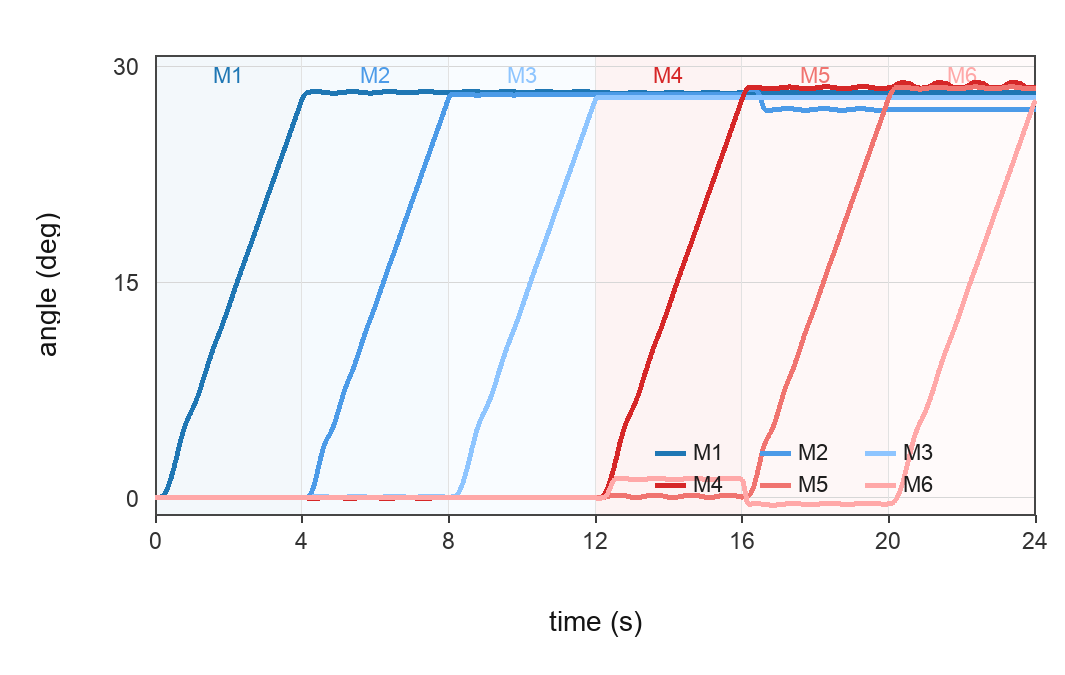
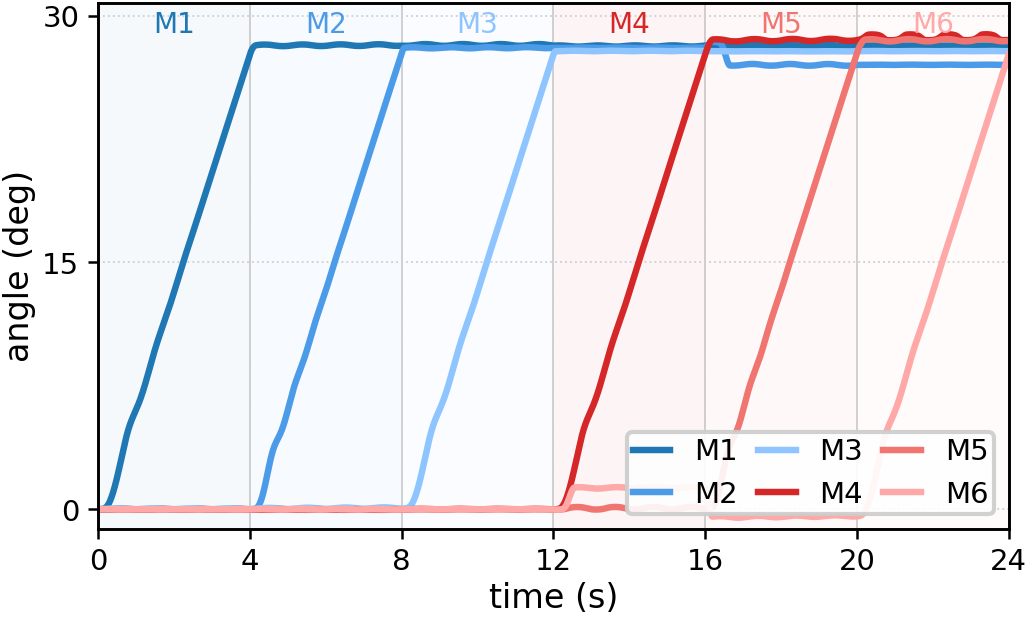
feat: Enhance README and scripts with detailed explanations and visualizations for dual-arm platform

diff --git a/scripts/case_study_dualarm.py b/scripts/case_study_dualarm.py
@@ -30,6 +30,7 @@ np.seterr(all="ignore")
 import matplotlib
 matplotlib.use("Agg")
 import matplotlib.pyplot as plt
+import matplotlib.patheffects as pe
 from scipy.integrate import solve_ivp
 
 ROOT = pathlib.Path(__file__).resolve().parent.parent
@@ -55,6 +56,30 @@ N_CYCLES = 6
 ARM_COLORS = ("#1f77b4", "#d62728")
 MOTOR_COLORS = ["#1f77b4", "#4c9be8", "#8ec5ff", "#d62728", "#f07470", "#ffa8a8"]
 PAPER_DPI = 300
+
+# Coil profile for the layout drawing only (magnetics stay in
+# selective_em.coils). Real core/winding are Ø45/Ø105 mm, 180/120 mm long; the
+# layout draws a shortened, slightly slimmed solenoid (exposed core tip +
+# winding barrel + open bore) so all eight coils render as complete, distinct
+# bodies that fit fully inside the frame instead of being cropped at its edges.
+CORE_R, WIND_R = 0.019, 0.036
+CORE_TIP, WIND_LEN = 0.010, 0.040   # exposed core tip + winding barrel length
+COIL_CU, COIL_CU_EDGE = "#b86b45", "#5b2c1c"
+CORE_COL, CORE_EDGE = "#d8d5ca", "#4d4d4d"
+# coil number -> (unit axis toward the workspace, core-top position (m));
+# nominal mounting poses of the 10-coil array (body extends along -axis)
+COIL_POSES = {
+    1:  ((-1.0, 0.0, 0.0),                (0.085, 0.0, 0.0)),
+    2:  ((-0.5, 0.866025, 0.0),           (0.0425, -0.073612, 0.0)),
+    3:  ((0.5, 0.866025, 0.0),            (-0.0425, -0.073612, 0.0)),
+    4:  ((1.0, 0.0, 0.0),                 (-0.085, 0.0, 0.0)),
+    5:  ((0.5, -0.866025, 0.0),           (-0.0425, 0.073612, 0.0)),
+    6:  ((-0.5, -0.866025, 0.0),          (0.0425, 0.073612, 0.0)),
+    7:  ((0.0, 0.766045, 0.642787),       (0.0, -0.0651138, -0.0546369)),
+    8:  ((0.663414, -0.383022, 0.642787), (-0.0563902, 0.0325569, -0.0546369)),
+    9:  ((-0.663414, -0.383022, 0.642787), (0.0563902, 0.0325569, -0.0546369)),
+    10: ((0.0, 0.0, 1.0),                 (0.0, 0.0, -0.085)),
+}
 
 
 PAPER_STYLE = {
@@ -164,6 +189,51 @@ def _cylinder(ax, p0, p1, r, color, n=24, alpha=1.0, cap=True):
                             shade=True)
 
 
+def _annulus(ax, center, axis, r0, r1, color, alpha=1.0, n=48):
+    c = np.asarray(center, float)
+    _, u, v = _frame(axis)
+    th = np.linspace(0, 2 * np.pi, n); rr = np.array([r0, r1])
+    RR, TH = np.meshgrid(rr, th)
+    X = c[0] + RR * np.cos(TH) * u[0] + RR * np.sin(TH) * v[0]
+    Y = c[1] + RR * np.cos(TH) * u[1] + RR * np.sin(TH) * v[1]
+    Z = c[2] + RR * np.cos(TH) * u[2] + RR * np.sin(TH) * v[2]
+    ax.plot_surface(X, Y, Z, color=color, alpha=alpha, linewidth=0, shade=True)
+
+
+def _ring(ax, center, axis, r, color, lw=0.5, alpha=1.0, n=72):
+    c = np.asarray(center, float)
+    _, u, v = _frame(axis)
+    th = np.linspace(0, 2 * np.pi, n)
+    ax.plot(c[0] + r * (np.cos(th) * u[0] + np.sin(th) * v[0]),
+            c[1] + r * (np.cos(th) * u[1] + np.sin(th) * v[1]),
+            c[2] + r * (np.cos(th) * u[2] + np.sin(th) * v[2]),
+            color=color, lw=lw, alpha=alpha)
+
+
+def _draw_coil(ax, num, view, alpha=0.92):
+    """Complete schematic solenoid for coil `num`: exposed iron core tip, copper
+    winding barrel with an open bore, and front/rear end rings."""
+    axis, top = COIL_POSES[num]
+    axis = np.asarray(axis, float); top = np.asarray(top, float)
+    head = top - CORE_TIP * axis          # winding front face
+    back = head - WIND_LEN * axis         # winding rear face
+    core = [(lambda: _cylinder(ax, head, top, CORE_R, CORE_COL, alpha=alpha)),
+            (lambda: _ring(ax, top, axis, CORE_R, CORE_EDGE, lw=0.6, alpha=alpha))]
+    front = [(lambda: _annulus(ax, head, axis, CORE_R, WIND_R, COIL_CU, alpha=alpha)),
+             (lambda: _ring(ax, head, axis, WIND_R, COIL_CU_EDGE, lw=0.7, alpha=alpha)),
+             (lambda: _ring(ax, head, axis, CORE_R, COIL_CU_EDGE, lw=0.5, alpha=alpha))]
+    barrel = [(lambda: _cylinder(ax, back, head, WIND_R, COIL_CU, alpha=alpha, cap=False))]
+    rear = [(lambda: _annulus(ax, back, axis, CORE_R, WIND_R, COIL_CU, alpha=alpha)),
+            (lambda: _ring(ax, back, axis, WIND_R, COIL_CU_EDGE, lw=0.7, alpha=alpha))]
+    # painter's algorithm within the coil: far parts first
+    if np.dot(axis, view) > 0:            # front face toward the camera
+        parts = rear + barrel + front + core
+    else:                                 # rear face toward the camera
+        parts = core + front + barrel + rear
+    for draw in parts:
+        draw()
+
+
 def _box(ax, center, sx, sy, sz, color, alpha=1.0):
     from mpl_toolkits.mplot3d.art3d import Poly3DCollection
     cx, cy, cz = center
@@ -176,64 +246,121 @@ def _box(ax, center, sx, sy, sz, color, alpha=1.0):
 
 
 def _draw_arm(ax, motors, ai):
+    """Draw one 3-motor arm (base, links, joint magnets, gripper). Labels are
+    added by `_label_motors` so they never overlap the geometry."""
+    from matplotlib.colors import to_rgb
     m1, m2, m3 = motors
     z = np.array([0, 0, 1.0]); col = ARM_COLORS[ai]
-    _box(ax, (m1[0], m1[1], m1[2] - 0.010), 0.022, 0.022, 0.008, "0.35")  # base
-    _cylinder(ax, (m1[0], m1[1], m1[2] - 0.006), m1, 0.005, "0.5")        # pillar
-    _cylinder(ax, m1, m2, 0.0035, "0.6")                                   # link 1
-    _cylinder(ax, m2, m3, 0.0035, "0.6")                                   # link 2
+    link_col = tuple(0.40 * c + 0.60 for c in to_rgb(col))  # pale arm tint
+    _box(ax, (m1[0], m1[1], m1[2] - 0.010), 0.024, 0.024, 0.008, "0.35")  # base
+    _cylinder(ax, (m1[0], m1[1], m1[2] - 0.006), m1, 0.006, "0.5")        # pillar
+    _cylinder(ax, m1, m2, 0.0060, link_col)                                # link 1
+    _cylinder(ax, m2, m3, 0.0060, link_col)                                # link 2
     for p in (m1, m2):                                                     # joint motors
-        _cylinder(ax, p - z * 0.005, p + z * 0.005, 0.007, col)
-    _cylinder(ax, m3 - z * 0.004, m3 + z * 0.004, 0.006, col)             # gripper hub
+        _cylinder(ax, p - z * 0.006, p + z * 0.006, 0.0085, col)
+    _cylinder(ax, m3 - z * 0.005, m3 + z * 0.005, 0.0072, col)            # gripper hub
     d = m3 - m2; d = d / (np.linalg.norm(d) + 1e-9)
     perp = np.array([-d[1], d[0], 0.0])
     for s in (1, -1):                                                      # gripper prongs
-        root = m3 + perp * s * 0.004
-        _cylinder(ax, root, root + d * 0.011 + perp * s * 0.003, 0.0015, col)
-    for p in (m1, m2, m3):                                                 # rotation axes
-        ax.quiver(p[0], p[1], p[2] + 0.008, 0, 0, 0.011, color="k", lw=1,
-                  arrow_length_ratio=0.35)
-    for k, p in enumerate((m1, m2, m3)):
-        ax.text(p[0] + 0.004, p[1], p[2] + 0.013, f"M{3*ai+k+1}", fontsize=11,
-                weight="bold", color=col)
+        root = m3 + perp * s * 0.005
+        _cylinder(ax, root, root + d * 0.013 + perp * s * 0.004, 0.0018, col)
 
 
-def fig_layout(motors, coils, out):
-    from matplotlib.lines import Line2D
+def _label_motors(ax, motors, fan, lift=0.030, spread=0.016, fs=13):
+    """Leader-lined M-labels fanned out of the arm cluster so each sits clear of
+    the geometry. `fan[k]` is the (dx, dy) offset direction for motor k."""
+    halo = [pe.withStroke(linewidth=2.6, foreground="white")]
+    for k, p in enumerate(motors):
+        col = ARM_COLORS[0 if k < 3 else 1]
+        dx, dy = fan[k]
+        q = np.array([p[0] + dx * spread, p[1] + dy * spread, p[2] + lift])
+        ax.plot([p[0], q[0]], [p[1], q[1]], [p[2], q[2]], color=col, lw=0.9,
+                alpha=0.85, zorder=60)
+        ax.scatter([p[0]], [p[1]], [p[2]], s=8, color=col, zorder=61)
+        t = ax.text(q[0], q[1], q[2], f"M{k+1}", fontsize=fs, weight="bold",
+                    color=col, ha="center", va="center", zorder=62)
+        t.set_path_effects(halo)
+
+
+def _clean3d(ax):
+    """Strip ticks, panes, grid and axis lines for the arm-detail panel."""
+    ax.set_xticks([]); ax.set_yticks([]); ax.set_zticks([])
+    for a in (ax.xaxis, ax.yaxis, ax.zaxis):
+        a.pane.set_visible(False); a.line.set_visible(False)
+    ax.grid(False)
+
+
+def _panel_arms(ax, motors):
+    """Panel (a): the two arms zoomed in, with per-motor leader labels."""
+    ax.computed_zorder = False
+    _draw_arm(ax, motors[0:3], 0)
+    _draw_arm(ax, motors[3:6], 1)
+    fan = {0: (0.55, 1.05), 1: (0.95, -0.65), 2: (0.15, 1.15),
+           3: (-0.55, 1.05), 4: (-1.25, 0.15), 5: (-0.15, -1.20)}
+    _label_motors(ax, motors, fan)
+    M = np.array(motors)
+    ax.set_xlim(M[:, 0].min() - 0.014, M[:, 0].max() + 0.014)
+    ax.set_ylim(M[:, 1].min() - 0.022, M[:, 1].max() + 0.022)
+    ax.set_zlim(M[:, 2].min() - 0.010, M[:, 2].max() + 0.036)
+    ax.set_box_aspect((np.ptp(M[:, 0]) + 0.028, np.ptp(M[:, 1]) + 0.044, 0.055))
+    ax.view_init(elev=42, azim=-70)
+    _clean3d(ax)
+
+
+def _panel_system(ax, motors, coil_nums):
+    """Panel (b): the full platform — six motors ringed by the eight coils."""
+    halo = [pe.withStroke(linewidth=2.6, foreground="white")]
+    # draw order (coils -> arms -> tags) instead of depth sort keeps the arms
+    # and their tags in front of the translucent coils
+    ax.computed_zorder = False
+    elev, azim = 24, -58
+    view = np.array([math.cos(math.radians(elev)) * math.cos(math.radians(azim)),
+                     math.cos(math.radians(elev)) * math.sin(math.radians(azim)),
+                     math.sin(math.radians(elev))])
+    for num in sorted(coil_nums, key=lambda n: np.dot(COIL_POSES[n][1], view)):
+        _draw_coil(ax, num, view)
+    _draw_arm(ax, motors[0:3], 0)
+    _draw_arm(ax, motors[3:6], 1)
+    for ms, ai, txt in [(motors[0:3], 0, "Arm 1"), (motors[3:6], 1, "Arm 2")]:
+        c = np.mean(ms, axis=0); q = c + np.array([0.0, 0.0, 0.078])
+        ax.plot([c[0], q[0]], [c[1], q[1]], [c[2], q[2]], color=ARM_COLORS[ai],
+                lw=1.0, alpha=0.85)
+        t = ax.text(q[0], q[1], q[2], txt, fontsize=12.5, weight="bold",
+                    color=ARM_COLORS[ai], ha="center", va="center")
+        t.set_path_effects(halo)
+    ax.set_xlabel("$x$ (m)", labelpad=8)
+    ax.set_ylabel("$y$ (m)", labelpad=8)
+    ax.set_zlabel("$z$ (m)", labelpad=6)
+    L = 0.135
+    ax.set_xlim(-L, L); ax.set_ylim(-L, L); ax.set_zlim(-0.135, 0.06)
+    ax.set_xticks([-0.1, 0, 0.1]); ax.set_yticks([-0.1, 0, 0.1])
+    ax.set_zticks([-0.1, -0.05, 0, 0.05])
+    ax.set_box_aspect((1, 1, 0.72)); ax.view_init(elev=elev, azim=azim)
+    ax.tick_params(pad=1)
+
+
+def fig_layout(motors, coil_nums, out):
+    """Two-panel platform layout: (a) a zoomed arm detail with per-motor labels,
+    (b) the full platform — six motors ringed by the eight complete coils."""
     layout_style = dict(PAPER_STYLE)
     layout_style.update({
-        "font.size": 12,
-        "axes.labelsize": 12,
-        "axes.titlesize": 12,
-        "xtick.labelsize": 10.5,
-        "ytick.labelsize": 10.5,
-        "legend.fontsize": 10.5,
-        "figure.titlesize": 13.5,
+        "font.size": 15,
+        "axes.labelsize": 16,
+        "axes.titlesize": 15,
+        "xtick.labelsize": 11,
+        "ytick.labelsize": 11,
     })
     with plt.rc_context(layout_style):
-        fig = plt.figure(figsize=(3.55, 3.25))
-        ax = fig.add_subplot(111, projection="3d")
-        for c in coils:                                # coils as faint solenoids
-            mo = c[:3] / (np.linalg.norm(c[:3]) + 1e-9)
-            _cylinder(ax, c[3:6] - mo * 0.011, c[3:6] + mo * 0.011, 0.013, "0.72",
-                      alpha=0.26, cap=False)
-        _draw_arm(ax, motors[0:3], 0)
-        _draw_arm(ax, motors[3:6], 1)
-        ax.set_xlabel("$x$ (m)", labelpad=-2)
-        ax.set_ylabel("$y$ (m)", labelpad=-2)
-        ax.set_zlabel("$z$ (m)", labelpad=-2)
-        ax.tick_params(axis="both", which="major", pad=-2)
-        ax.set_xlim(-0.075, 0.075); ax.set_ylim(-0.075, 0.075); ax.set_zlim(-0.11, -0.01)
-        ax.set_box_aspect((1, 1, 0.7)); ax.view_init(elev=26, azim=-60)
-        legend = [Line2D([0], [0], marker="o", color="w", markerfacecolor=ARM_COLORS[0],
-                         markersize=9, label="Arm 1: M1-M3"),
-                  Line2D([0], [0], marker="o", color="w", markerfacecolor=ARM_COLORS[1],
-                         markersize=9, label="Arm 2: M4-M6"),
-                  Line2D([0], [0], color="0.72", lw=6, alpha=0.55, label="8 coils")]
-        ax.legend(handles=legend, loc="upper left", frameon=True, framealpha=0.88,
-                  borderpad=0.25, handlelength=1.2)
-        fig.subplots_adjust(left=-0.07, right=1.02, bottom=-0.03, top=0.99)
-        fig.savefig(out, dpi=PAPER_DPI, bbox_inches="tight", pad_inches=0.01)
+        fig = plt.figure(figsize=(7.6, 4.0))
+        axa = fig.add_axes([-0.01, 0.04, 0.40, 0.90], projection="3d")
+        axb = fig.add_axes([0.35, 0.00, 0.66, 0.96], projection="3d")
+        _panel_arms(axa, motors)
+        _panel_system(axb, motors, coil_nums)
+        axa.text2D(0.5, 0.97, "(a) arm detail", transform=axa.transAxes,
+                   ha="center", fontsize=13)
+        axb.text2D(0.5, 0.96, "(b) platform: 6 motors, 8 coils",
+                   transform=axb.transAxes, ha="center", fontsize=13)
+        fig.savefig(out, dpi=PAPER_DPI)
         plt.close(fig)
 
 
@@ -326,12 +453,13 @@ def fig_sequence(A, out):
         ax.set_ylim(-1.2, 30.8)
         ax.set_yticks([0, 15, 30])
         ax.set_xlim(0, n * Tseg)
-        ax.set_xlabel("time (s)")
-        ax.set_ylabel("angle (deg)")
+        ax.set_xticks([m * Tseg for m in range(n + 1)])
+        ax.set_xlabel("time (s)", labelpad=1.5)
+        ax.set_ylabel("angle (deg)", labelpad=1.5)
         ax.grid(True, ls=":", lw=0.45, color="0.82")
         ax.legend(ncol=3, loc="lower right", frameon=True, framealpha=0.9,
                   borderpad=0.2, handlelength=1.3, columnspacing=0.7)
-        ax.tick_params(direction="out", length=2.5, width=0.6)
+        ax.tick_params(direction="out", length=2.5, width=0.6, pad=2)
         fig.subplots_adjust(left=0.14, right=0.995, bottom=0.20, top=0.98)
         fig.savefig(out, dpi=PAPER_DPI, bbox_inches="tight", pad_inches=0.01)
         plt.close(fig)
@@ -383,7 +511,7 @@ def main():
     all_sel = bool(np.all(diag > 0.6) and np.all(off < 0.4))
 
     print("rendering figures...")
-    fig_layout(motors, coils, figdir / "dualarm_layout.png")
+    fig_layout(motors, [i + 1 for i in COILS_IDX], figdir / "dualarm_layout.png")
     fig_winding(W, curr, figdir / "dualarm_winding.png")
     fig_fields(A, 0, figdir / "dualarm_fields.png")
     fig_sequence(A, figdir / "dualarm_trajectories.png")

diff --git a/README.md b/README.md
@@ -10,6 +10,12 @@ magnetic motors at a time using far fewer coils than full actuation requires**
 shaped so that only the intended motor receives enough torque to rotate, and a
 motor-by-motor actuation sequence is planned to reach the target pose.
 
+![3-DOF arm demonstrator and a scaled-up 6-motor / 8-coil platform](figures/dualarm_layout.png)
+
+*The demonstrator is a 3-DOF arm — two revolute joints plus a gripper, each joint a
+permanent magnet on a 1:50 gearbox (left, motors **M1–M6**). The same principle scales
+to a 6-motor / 8-coil platform (right). Generated by `scripts/case_study_dualarm.py`.*
+
 ## Installation
 
 ```bash
@@ -57,6 +63,14 @@ archive/        pre-refactor exploration scripts (unmaintained; see archive/READ
 | Dual-layer axial A*, **Algorithm 3** | `planner.a_star` |
 | Per-step selective controller | `scripts/run_field_optimization.py` |
 
+The revised **support-function MFW/MSD** replaces the old vertex-enumeration
+Algorithms 1–2. It hugs a Monte-Carlo ground truth to within <1 %, whereas the old
+pair under-estimated the MSD by 8–40 % and was non-deterministic for >2 constrained
+dimensions — enough to flip a selectivity classification at some configurations
+(`scripts/compare_mfw_methods.py`):
+
+![Support-function MFW/MSD vs old Algorithms 1–2 vs Monte-Carlo ground truth](figures/mfw_method_comparison.png)
+
 ## Coil configurations
 
 `selective_em.coils` holds all 10 calibrated coils and the named subsets each
@@ -67,6 +81,31 @@ experiment uses (this replaces the old habit of commenting lines in/out):
 - `FULL_ARRAY` (all 10) — calibration and control-sequence generation.
 
 Helpers accept an explicit `coils=` argument, so one import serves any subset.
+
+## Selective actuation, end to end
+
+`scripts/case_study_dualarm.py` runs the whole pipeline on a scaled-up
+6-motor / 8-coil platform and renders the paper's case-study figures.
+
+When one motor is actuated, its induced field is driven around a circle *larger* than
+the rotation threshold `b_min`, while every other motor's field stays *inside* its own
+threshold circle — so only the intended motor turns:
+
+![Induced field at all six motors while motor 1 is actuated](figures/dualarm_fields.png)
+
+The same story as a net-winding matrix: one full turn per cycle on the diagonal (the
+target rotates), ≈0 off-diagonal (the others are held):
+
+![Input-magnet net winding matrix — near-identity](figures/dualarm_winding.png)
+
+Actuating the six motors in sequence, each one rotates only during its own time slot:
+
+![Sequential single-motor actuation over time](figures/dualarm_trajectories.png)
+
+Selectivity also scales gracefully: adding coils increases how many motors can be
+driven independently, beating the 2-coils-per-motor cost of full actuation:
+
+![Scalability — more coils yield more selectable motors](figures/dualarm_scalability.png)
 
 ## Running the experiments
 
@@ -85,7 +124,14 @@ python scripts/visualize_planner_steps.py        # -> figures/planner_process.pn
 python scripts/generate_control_sequence.py      # -> data/field_targets.csv + 3D preview
 python scripts/calibrate_coils.py                # unconstrained current tracking (10 coils)
 python scripts/run_field_optimization.py         # selective SLSQP controller (3 coils)
+python scripts/compare_mfw_methods.py            # -> figures/mfw_method_comparison.png
+python scripts/case_study_dualarm.py             # 6-motor/8-coil case study -> figures/dualarm_*.png
 ```
+
+The dual-layer axial A* planner explores the two per-axis feasibility maps (one per
+translation axis) and stitches together an axis-aligned path:
+
+![Dual-layer axial A* exploration steps](figures/planner_process.png)
 
 The feasibility/planning scripts are CPU-heavy (parallelized with
 `multiprocessing`).